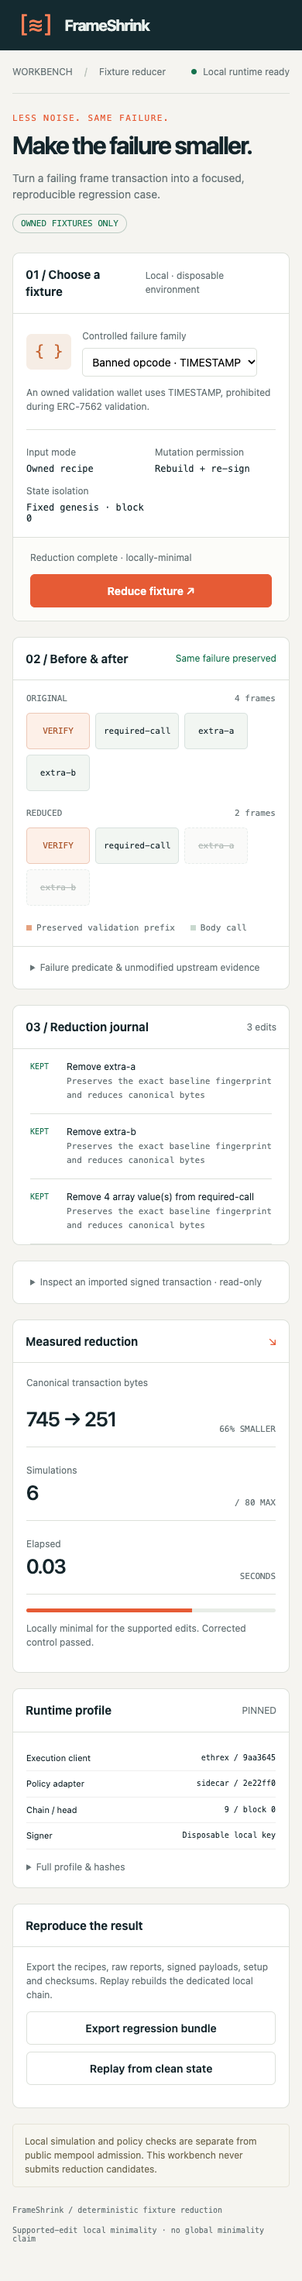
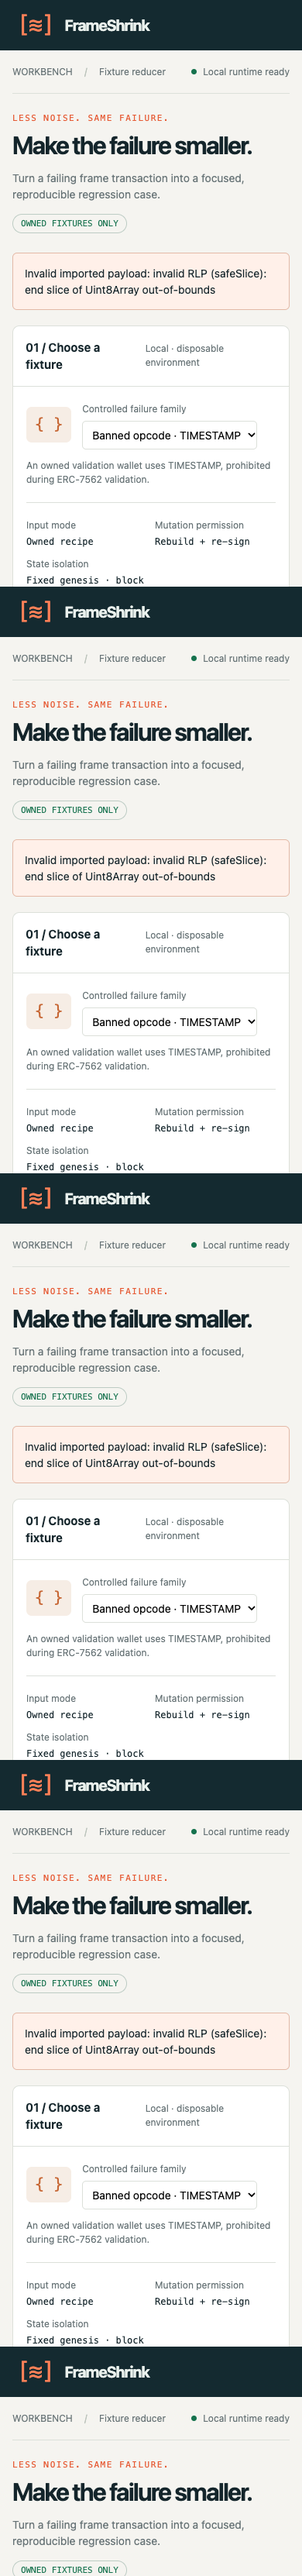
Fix mobile workbench overflow and capture CI browser diagnostics

Changed region(s): [[0.0, 0.0, 1.0, 1.0]]

diff --git a/test/browser/ui.spec.ts b/test/browser/ui.spec.ts
@@ -1,6 +1,20 @@
-import { test, expect } from "@playwright/test";
+import { test, expect, type Page } from "@playwright/test";
 const workbench =
   process.env.FRAMESHRINK_WORKBENCH_URL ?? "http://127.0.0.1:4317";
+
+async function expectLayoutFits(page: Page) {
+  const layout = await page.evaluate(() => ({
+    viewport: window.innerWidth,
+    width: document.documentElement.scrollWidth,
+    overflowing: [...document.querySelectorAll("body *")]
+      .filter((element) => element.getBoundingClientRect().right > innerWidth)
+      .map((element) => element.id || element.tagName.toLowerCase()),
+  }));
+  expect(layout.width, JSON.stringify(layout)).toBeLessThanOrEqual(
+    layout.viewport,
+  );
+}
+
 test("local reducer, bundle export, clean replay and read-only import", async ({
   page,
   request,
@@ -22,6 +36,7 @@ test("local reducer, bundle export, clean replay and read-only import", async ({
   await expect(page.locator("#replayResult")).toContainText(
     "Clean replay passed",
   );
+  await expectLayoutFits(page);
   await page.screenshot({
     path: "evidence/workbench-desktop.png",
     fullPage: true,
@@ -34,10 +49,7 @@ test("local reducer, bundle export, clean replay and read-only import", async ({
   ).toBeVisible();
   await expect(page.locator("#bytes")).toHaveText("745 → 251");
   await page.setViewportSize({ width: 390, height: 844 });
-  await page.screenshot({
-    path: "evidence/workbench-mobile.png",
-    fullPage: true,
-  });
+  await expectLayoutFits(page);
   await page
     .locator("summary")
     .filter({ hasText: "Inspect an imported" })
@@ -49,11 +61,17 @@ test("local reducer, bundle export, clean replay and read-only import", async ({
   await expect(page.getByRole("alert")).toContainText(
     "Invalid imported payload",
   );
-  expect(
-    await page.evaluate(
-      () => document.documentElement.scrollWidth <= window.innerWidth,
-    ),
-  ).toBe(true);
+  // The expanded import example and validation error must fit too; Linux
+  // system fonts exposed an intrinsic grid width that macOS fonts did not.
+  for (const width of [320, 390, 768, 1440]) {
+    await page.setViewportSize({ width, height: 844 });
+    await expectLayoutFits(page);
+  }
+  await page.setViewportSize({ width: 390, height: 844 });
+  await page.screenshot({
+    path: "evidence/workbench-mobile.png",
+    fullPage: true,
+  });
   expect(errors).toEqual([]);
   const csrf = await request.post(workbench + "/api/reduce", {
     data: {},

diff --git a/src/ui.html b/src/ui.html
@@ -61,7 +61,7 @@
       .layout {
         min-height: 100vh;
         display: grid;
-        grid-template-columns: 248px 1fr;
+        grid-template-columns: 248px minmax(0, 1fr);
       }
       aside {
         background: var(--nav);
@@ -117,6 +117,7 @@
         padding-top: 20px;
       }
       main {
+        min-width: 0;
         padding: 0 44px 40px;
         max-width: 1560px;
         width: 100%;
@@ -184,6 +185,9 @@
         grid-template-columns: minmax(0, 1fr) 300px;
         gap: 20px;
       }
+      .grid > * {
+        min-width: 0;
+      }
       .card {
         background: #fff;
         border: 1px solid var(--line);
@@ -210,6 +214,9 @@
         display: flex;
         gap: 14px;
         align-items: center;
+      }
+      .fixture > div {
+        min-width: 0;
       }
       .fixture-icon {
         background: #f6ede5;
@@ -301,6 +308,7 @@
       }
       .legend {
         display: flex;
+        flex-wrap: wrap;
         gap: 20px;
         color: var(--muted);
         font: 11px monospace;
@@ -421,6 +429,7 @@
         border-radius: 6px;
         margin-bottom: 20px;
         white-space: pre-wrap;
+        overflow-wrap: anywhere;
       }
       #bundle {
         font: 11px monospace;
@@ -429,6 +438,7 @@
       }
       .importbox {
         margin-top: 20px;
+        overflow-wrap: anywhere;
       }
       textarea {
         width: 100%;
@@ -466,7 +476,7 @@
       }
       @media (max-width: 1100px) {
         .layout {
-          grid-template-columns: 190px 1fr;
+          grid-template-columns: 190px minmax(0, 1fr);
         }
         aside {
           padding: 25px 15px;
@@ -475,11 +485,11 @@
           padding: 0 24px 30px;
         }
         .grid {
-          grid-template-columns: 1fr;
+          grid-template-columns: minmax(0, 1fr);
         }
         .right-stack {
           display: grid;
-          grid-template-columns: 1fr 1fr;
+          grid-template-columns: repeat(2, minmax(0, 1fr));
         }
         .hero h1 {
           font-size: 32px;

diff --git a/playwright.config.ts b/playwright.config.ts
@@ -7,6 +7,8 @@ export default defineConfig({
     browserName: "chromium",
     headless: true,
     viewport: { width: 1440, height: 1100 },
+    screenshot: "only-on-failure",
+    trace: "retain-on-failure",
     launchOptions: {
       ...(process.env.PLAYWRIGHT_CHROME_PATH
         ? { executablePath: process.env.PLAYWRIGHT_CHROME_PATH }
